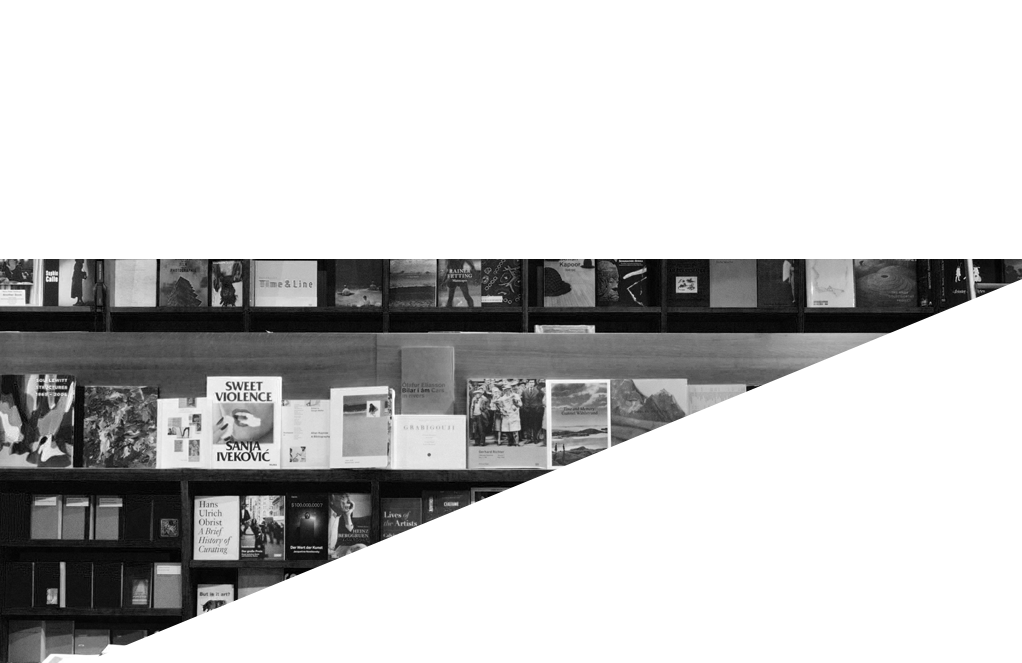
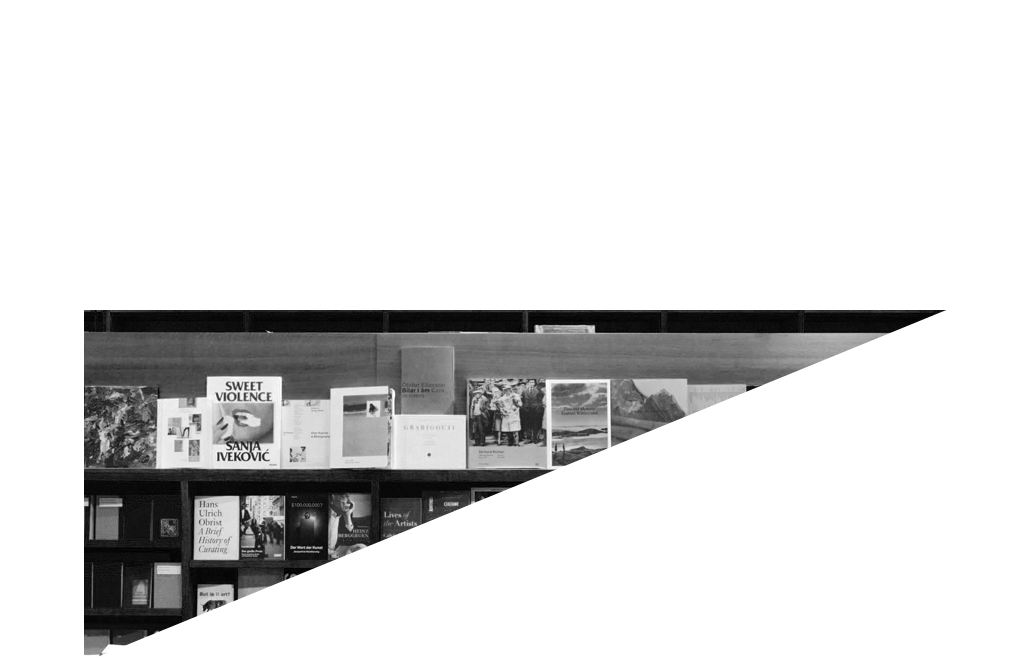
Crop books triangle and adjust placement

Changed region(s): [[0.0, 0.3922, 1.0, 1.0]]

diff --git a/app/assets/stylesheets/application.css b/app/assets/stylesheets/application.css
@@ -10,7 +10,7 @@
 }
 .beer {
   top: -450px;
-  left: 0px;
+  left: -120px;
   position: absolute;
   z-index: 0;
 }
@@ -50,8 +50,10 @@
 }
 .preference {
   width: 25%;
-  margin: 10px;
+  margin: 20px;
   display: inline-block;
+  border-left: 1px solid #000;
+  padding-left: 15px;
 }
 .left-triangle {
   height: 0;
